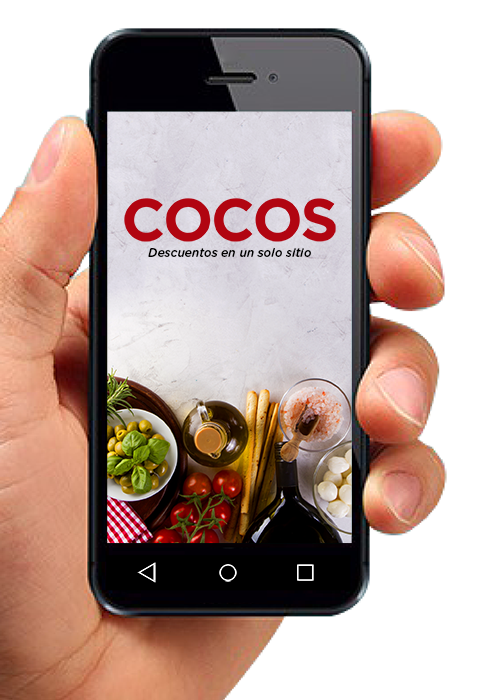
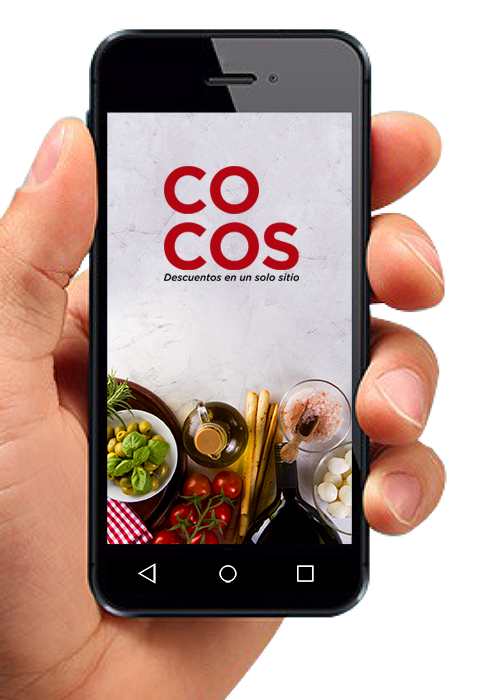
fix landing

diff --git a/src/app/landing/header/header.component.html b/src/app/landing/header/header.component.html
@@ -1,12 +1,12 @@
 <div class="header flex-row-layout ai-center">
-  <img scroll-to=".intro" class="logo logo-white" src="/assets/images/logo-label--black.png" alt="">
-  <img scroll-to=".intro" class="logo logo-black" src="/assets/images/logo-label.png" alt="">
+  <img scroll-to=".intro" class="logo logo-white" src="/assets/images/logo-label--2.png" alt="">
+  <img scroll-to=".intro" class="logo logo-black" src="/assets/images/logo-label--2.png" alt="">
   <div class="flex flex-row-layout">
     <span class="flex"></span>
     <ul class="menu  hide-xs hide-sm">
       <li class="cc-link"><a scroll-to=".information" href="!#">Nosotros</a></li>
       <!-- <li class="cc-link"><a scroll-to=".team" href="!#">El equipo</a></li> -->
-      <li class="cc-link"><a scroll-to=".cocos-app" href="!#">Cocos app</a></li>
+      <li class="cc-link"><a scroll-to=".cocos-app" href="!#">App Cocos</a></li>
       <li class="cc-link"><a scroll-to=".affiliate" href="!#">Afíliate!</a></li>
       <li class="cc-link"><a scroll-to=".contact-us" href="!#">Contáctanos</a></li>
     </ul>

diff --git a/src/app/core/services/users.service.ts b/src/app/core/services/users.service.ts
@@ -56,7 +56,7 @@ export class UsersService extends BaseService implements CrudService<User>{
             }
             return Observable.of(false);
         }).catch( err => {
-            this.toast.error('No se pudo recuperar los datos del usuario');
+            // this.toast.error('No se pudo recuperar los datos del usuario');
             return Observable.of(false);
         });
     }
@@ -140,7 +140,8 @@ export class UsersService extends BaseService implements CrudService<User>{
                 }
                 return false;
             }).catch( err => {
-                this.toast.error('No se pudo recuperar la información del usuario');
+                // this.toast.error('No se pudo recuperar la información del usuario');
+                console.error(err);
                 return Observable.of(false);
             });
         }

diff --git a/src/app/landing/cocos-app/cocos-app.component.html b/src/app/landing/cocos-app/cocos-app.component.html
@@ -88,7 +88,7 @@
         <mat-card class="get-app text-center">
             <img class="app-phone" src="/assets/images/cocos-hand.png" alt="" width="150">
             <div class="get-app__content">
-                <p>¡Ya no te perderás más descuentos porque la informacion está distribuida en diferentes plataformas!<br>
+                <p>¡Ya no te perderás más descuentos porque la información está distribuida en diferentes plataformas!<br>
                     Descarga <b>COCOS</b> aquí:</p>
                 <div fxLayout="row wrap" fxLayoutAlign="center center">
                     <a href="https://play.google.com/store/apps/details?id=com.cerezaconsulting.cocosapp" target="_blank"

diff --git a/src/app/landing/menu-popup/menu-popup.component.html b/src/app/landing/menu-popup/menu-popup.component.html
@@ -7,7 +7,7 @@
   <ul class="links-container fill-height flex-col-layout jc-space-around ai-center">
     <li class="cc-link"><a scroll-to=".information" href="!#">Nosotros</a></li>
     <!-- <li class="cc-link"><a scroll-to=".team" href="!#">El equipo</a></li> -->
-    <li class="cc-link"><a scroll-to=".cocos-app" href="!#">Cocos app</a></li>
+    <li class="cc-link"><a scroll-to=".cocos-app" href="!#">App Cocos</a></li>
     <li class="cc-link"><a scroll-to=".affiliate" href="!#">Afíliate!</a></li>
     <li class="cc-link"><a scroll-to=".contact-us" href="!#">Contáctanos</a></li>
   </ul>

diff --git a/src/app/admin-auth/signin/signin.component.html b/src/app/admin-auth/signin/signin.component.html
@@ -12,7 +12,7 @@
       </a>  
     </div>
     <div class="signin__container flex-col-layout ai-stretch">
-      <img class="signin__logo" src="/assets/images/logo-label.png" alt="">
+      <img class="signin__logo" src="/assets/images/logo-label--2.png" alt="">
       <form [formGroup]="signinFG" class="flex-col-layout ai-stretch flex-gap" (submit)="signin()">
           <mat-form-field>
             <input type="text" matInput formControlName="email" placeholder="Email">

diff --git a/src/app/landing/intro/intro.component.html b/src/app/landing/intro/intro.component.html
@@ -1,7 +1,7 @@
 <div class="intro flex-col-layout ai-center jc-center flex-gap text-center">
   <!-- <div class="intro__overlay"></div> -->
   <div class="flex-col-layout ai-center jc-center flex-gap text-center" style="position: relative;">
-    <img class="logo" src="/assets/images/logo-label--black.png" alt="">
+    <img class="logo" src="/assets/images/logo-label--2.png" alt="">
     <!-- <p class="slogan">Descuentos en un solo sitio</p> -->
   </div>
 </div>

diff --git a/src/app/landing/intro/intro.component.scss b/src/app/landing/intro/intro.component.scss
@@ -2,7 +2,7 @@
     height: 100vh;
     width: 100%;
     color: #FFF;
-    background-image: url('/assets/images/intro-background-3.jpg');
+    background-image: url('/assets/images/intro-background.jpg');
     background-position: center;
     background-repeat: no-repeat;
     background-size: cover;

diff --git a/src/app/landing/header/header.component.scss b/src/app/landing/header/header.component.scss
@@ -12,7 +12,7 @@
     padding: 20px 20px;
     width: 100%;
     z-index: 9;
-    color: #000;    
+    color: #FFF;    
     @include transition2(all .2s linear);
     @include animationDuration(.2s !important);
     .logo-black{

diff --git a/src/app/landing/cocos-app/cocos-app.component.scss b/src/app/landing/cocos-app/cocos-app.component.scss
@@ -21,6 +21,7 @@
         &::before, &::after{
             content: '';
             background-color: currentColor;
+            z-index: 2;
             position: absolute;
             height: 2px;
             width: 50px;
